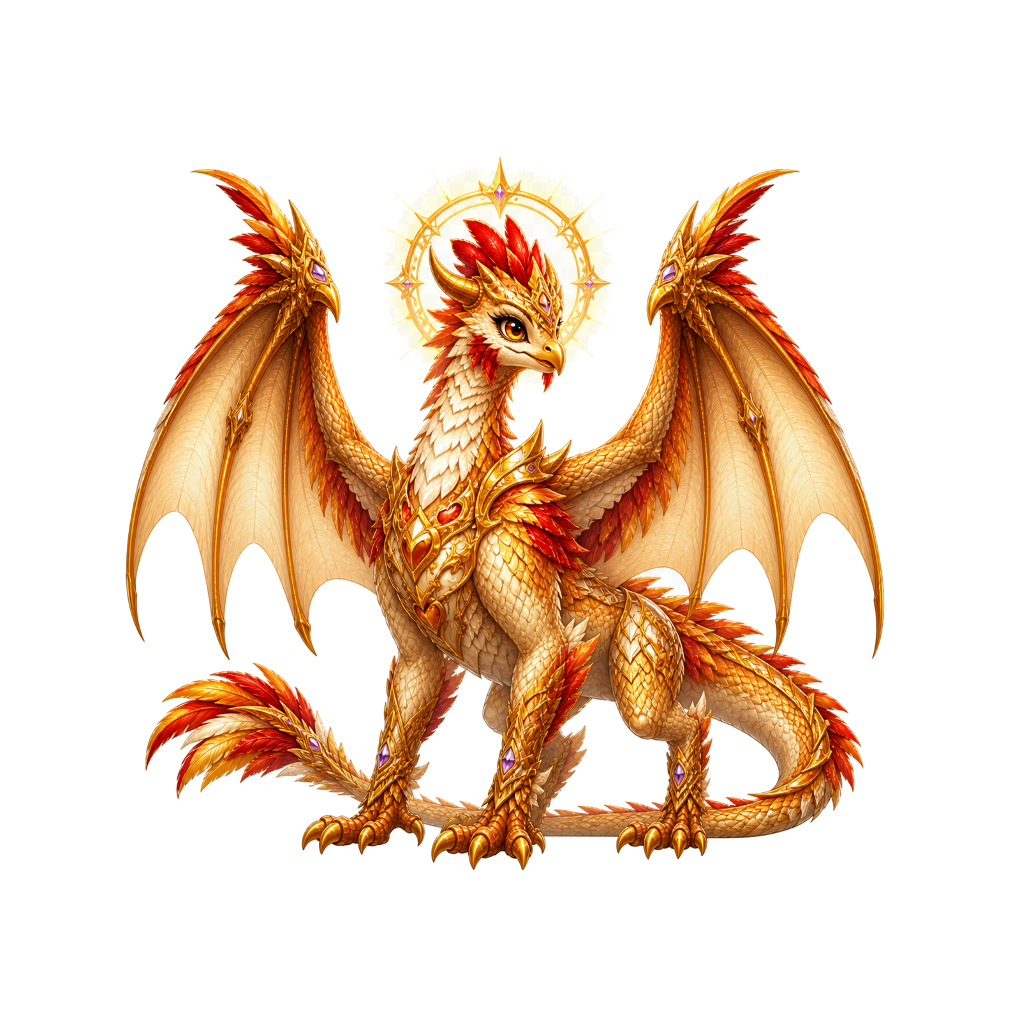
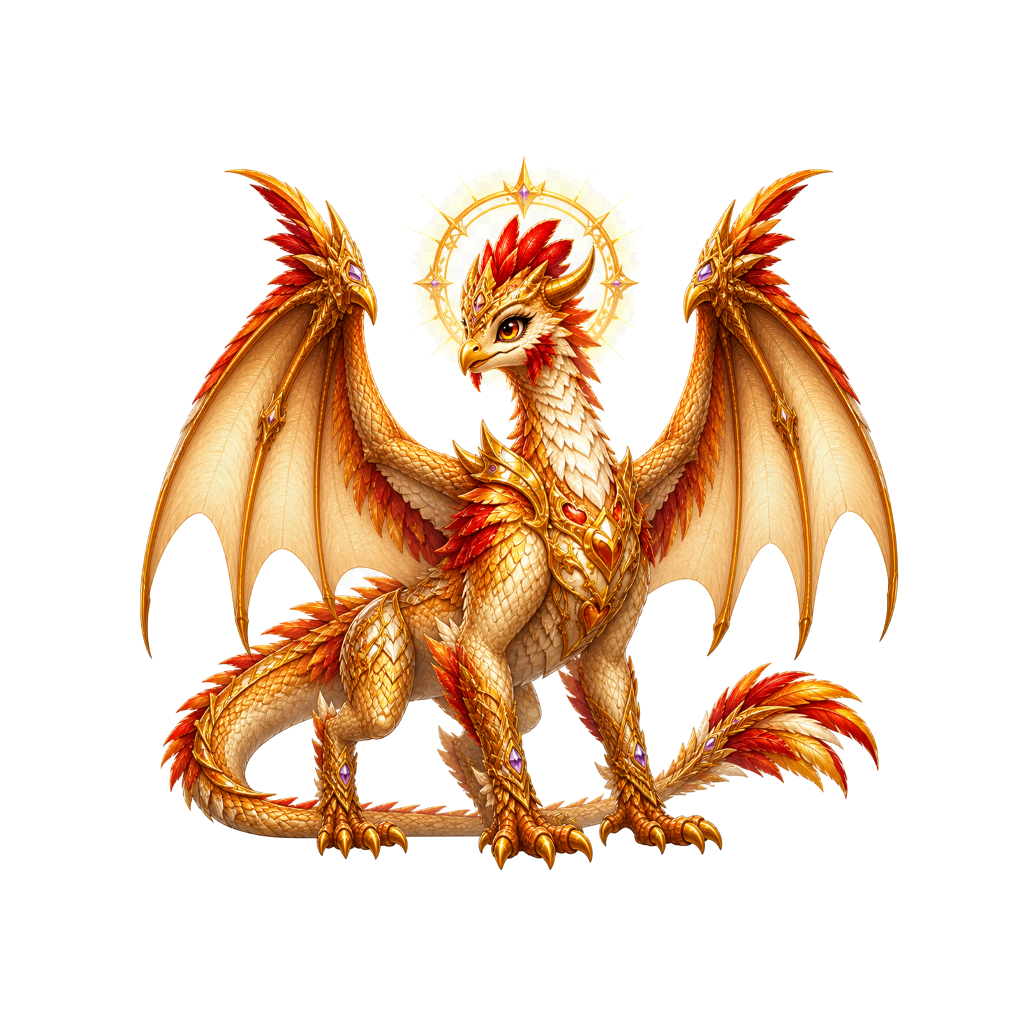
fix: align Cluckatrice mastery sprite

diff --git a/tool/flip_sprite_horizontal.dart b/tool/flip_sprite_horizontal.dart
@@ -1,0 +1,24 @@
+import 'dart:io';
+
+import 'package:image/image.dart';
+
+Future<void> main(List<String> arguments) async {
+  if (arguments.length != 1) {
+    stderr.writeln('Usage: dart run tool/flip_sprite_horizontal.dart <image>');
+    exitCode = 64;
+    return;
+  }
+
+  final file = File(arguments.single);
+  final decoded = decodeImage(await file.readAsBytes());
+  if (decoded == null) {
+    throw StateError('Could not decode ${file.path}');
+  }
+
+  final mirrored = flipHorizontal(decoded);
+  await file.writeAsBytes(encodeWebP(mirrored), flush: true);
+  stdout.writeln(
+    '${file.path}: horizontally mirrored '
+    '(${mirrored.width}x${mirrored.height}, lossless WebP)',
+  );
+}
